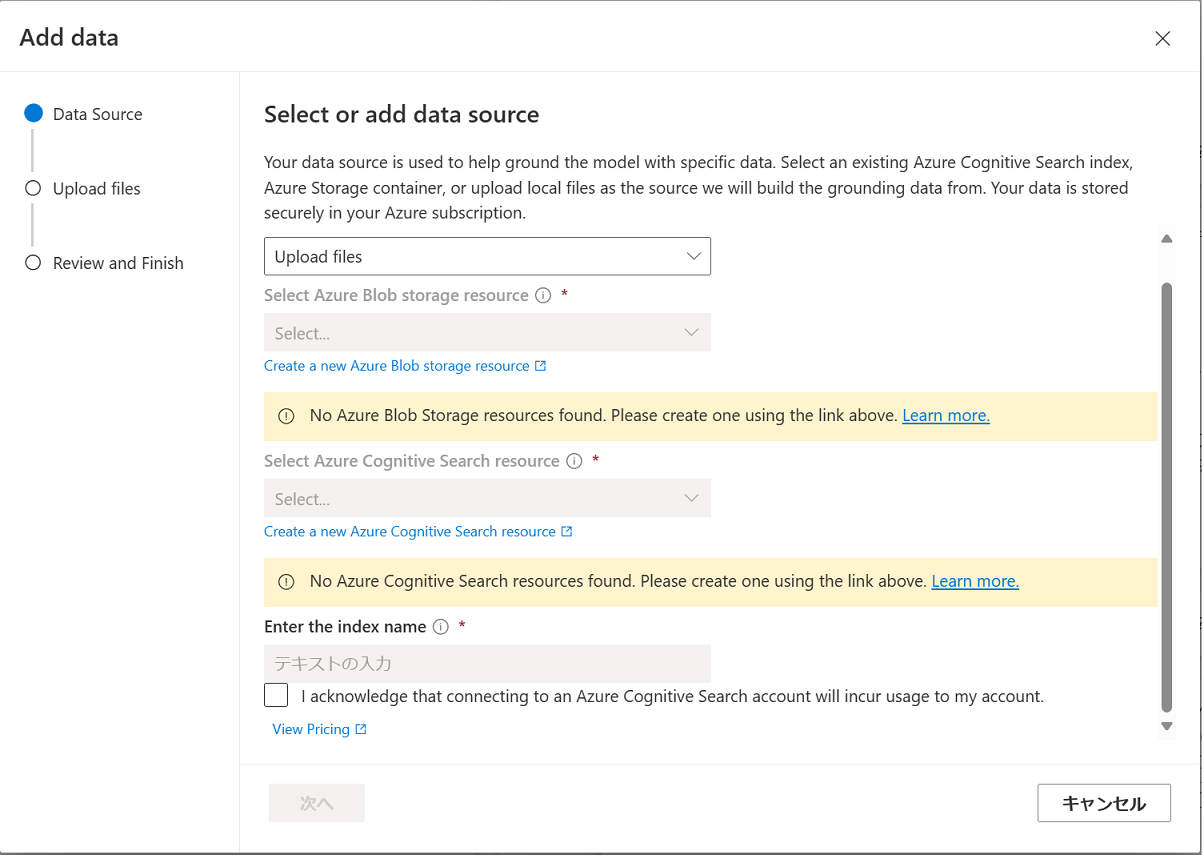
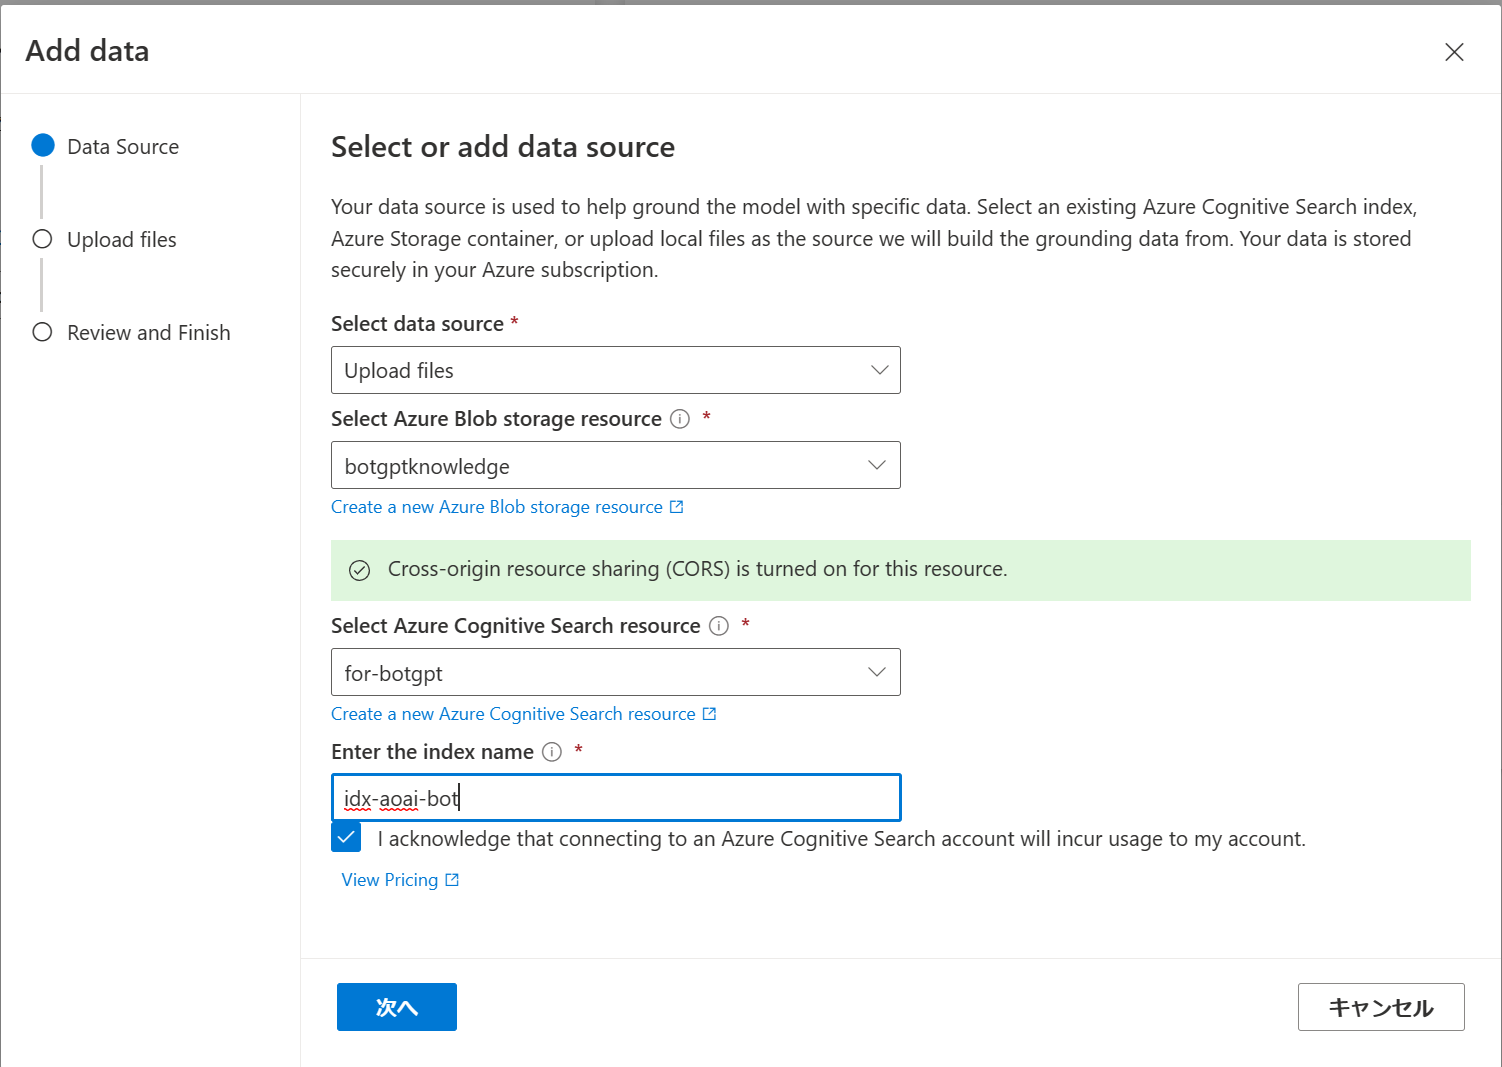
Add on your data

diff --git a/Ex01.md b/Ex01.md
@@ -298,6 +298,70 @@ Azure Storage アカウントへの接続、インデックスの作成、デー
 
 <br>
 
+### Azure OpenAI チャット ボットへの独自データの追加
+
+Azure OpenAI チャット ボットに独自のデータを追加するには、Azure OpenAI の UI を使用します。
+
+この手順では、事前準備が比較的簡単な Azure OpenAI の画面からファイルをアップロードする方法で行います。
+
+具体的な手順は以下のとおりです。
+
+\[**手順**\]
+
+1. タスク 2 で作成した Azure OpenAI のサービスの画面を開きます
+
+    ![Playground Chat](images/23june_ChatPLayGround_AIStudio.png)
+
+2. \[**アシスタントのセットアップ**\] タイルの \[**Add your data(preview)**\] タブをアクティブにし、同タブ内の　\[**+ Add data source**\] ボタンをクリックします
+
+    ![Add your data](images/23july_AddYourData.png)
+
+3. \[**Add your data**\] ダイアログが表示されるので、同ダイアログボックス中の \[**Select data source \***\]　ドロップダウンリストから **Upload files** を選択します
+
+    ![select data source](images/23July_select_dataSource.png)
+
+4. 必要な追加設定項目の入力欄が表示されるので、各項目を以下のように設定します
+
+    |  項目  |  値  |
+    | ---- | ---- |
+    |  **Select Azure Blob storage resource\***  |  前の手順で作成したストレージ アカウント(※)|
+    |  **Select Azure Cognitive Search resource\***  |  前の手順で作成した Cognitive Search  |
+    |  **Enter the index name \***  |  任意のインデックス名  |
+    |  **I acknowlege that connectiong to...**  |  チェック  |
+
+    (※) Azure Storage アカウントの選択時に CORS 設定が必要である旨の警告が表示されるので、\[**Turn on CORS**\] ボタンをクリックして CORS 設定を有効にします
+
+    ![CORS](images/23July_TurnOn_CORS.png)
+
+    すべての設定が完了したら、\[**次へ**\] ボタンをクリックします
+
+    ![Add your data](images/23July_AddYouData_AOAI.png)
+
+5. **Upload files** 画面に遷移するので、\[ドラッグ アンド ドロップ。または**ファイルを参照する**\] と書かれた灰色のボックス内に検索データとしたいファイルをドラッグアンドドロップするか、\[**ファイルを参照する**\]リンクをクリックしてファイルを選択します
+
+    ファイルリストにファイル名が表示されたら、\[**Upload files**\] ボタンをクリックします
+
+    ![Upload files](images/23July_AOAI_Fileupdate.png)
+
+    \[**次へ**\] ボタンがクリック可能なるまで待ち、クリックしします
+
+6. **Review and Finish** 画面に遷移するので、\[**保存して閉じる**\] ボタンをクリックします
+
+    ![Review and Finish](images/23July_AOAI_ReviewFinish.png)
+
+7. データの追加処理が開始されますので、完了するまで待ちます
+
+    ![Review and Finish](images/23July_Add_yourdata.png)
+
+    しばらく待つと以下のように表示が変わりますが、これは Cognitive Search のインデックスの準備が出来ただけ、インデックスの作成が完了したわけでない可能性があります。確認するにはインデックス名のリンクをクリックします
+
+    ![Review and Finish](images/23July_Add_yourdata2.png)
+
+
+
+  
+
+
 
 
 
